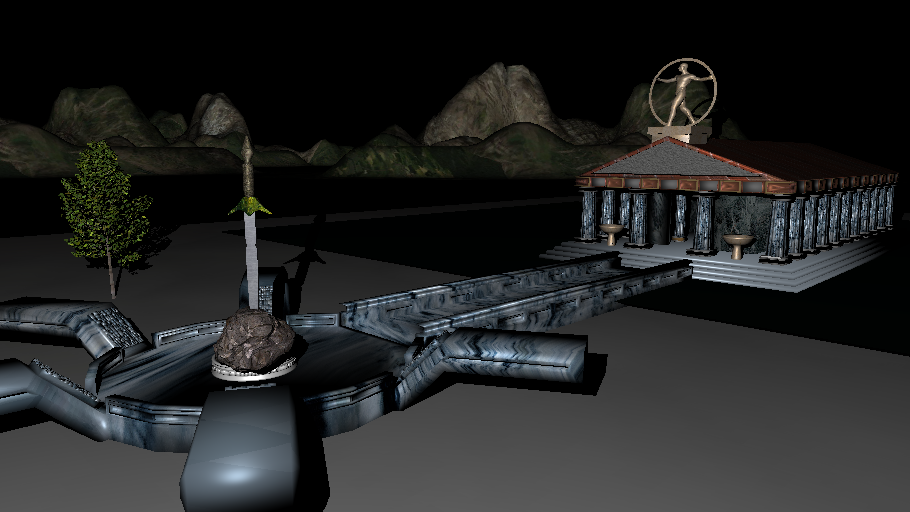
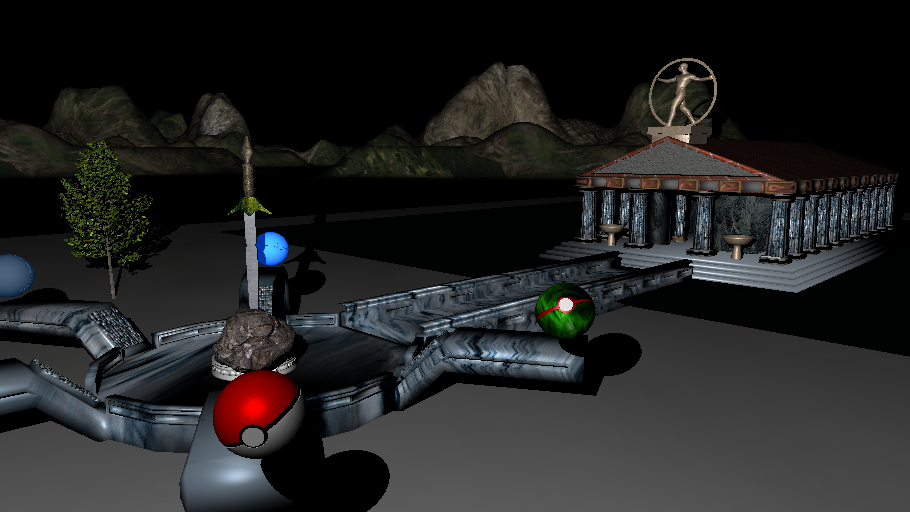
adding pokeballs and position them artfully

diff --git a/raytracer/Src/ExampleScene.cpp b/raytracer/Src/ExampleScene.cpp
@@ -609,9 +609,9 @@ void ExampleScene::initializeFinalScene()
     ////global settings
     rtCamera(/*eye*/STPoint3(10.f,7.f,25.f),/*up*/STVector3(0.f,1.f,0.f),/*lookat*/STPoint3(10.f,3.f,0.f),/*fov*/45.f,/*aspect*/1.7f);
     rtOutput(/*width*/910,/*height*/512,/*path*/"../Custom_Tests/AssignmentFinal.png");
-//    rtBounceDepth(100);
+    rtBounceDepth(100);
     rtShadowBias(1e-4f);
-//    rtSampleRate(2);
+    rtSampleRate(2);
     
     ////lighting
     rtAmbientLight(STColor3f(1.1f,1.1f,1.1f));
@@ -621,34 +621,47 @@ void ExampleScene::initializeFinalScene()
 //    rtPointLight(STPoint3(15.f,5.f,15.f),STColor3f(1.f,1.f,1.f));
 //    rtPointLight(STPoint3(2.5f,7.5f,20.f),STColor3f(.2f,.2f,.2f));
 
-//    //electric green pokeball
-//    rtPushMatrix();
-//    rtTranslate(2.7f,1.5f,13.f);
-//    rtRotate(15.f,15.f,0.f);
-//    rtScale(.5f,.5f,.5f);
-//    rtTriangleMeshWithMaterialAndTexture("../Custom_Tests/scene1/obj_files/indiv_obj/pokeball5.obj",true,false);
-//    rtPopMatrix();
-//    
-//    //shiny blue center pokeball
-//    Material mat_glass(/*ambient*/STColor3f(0.f,0.3f,0.6f),/*diffuse*/STColor3f(1.f,1.f,1.f),/*spec*/STColor3f(0.f,0.f,0.f),/*mirror*/STColor3f(1.f,1.f,1.f),/*shiness*/70.f);
-//    rtMaterial(mat_glass);
-//    int tex_id;rtLoadTexture("../Standard_Tests/blue.png",tex_id);
-//    rtBindTexture(tex_id);
-//
-//    rtPushMatrix();
-//    rtTranslate(3.7f,3.7f,11.8f);
-//    rtRotate(-90.f,5.f,0.f);
-//    rtScale(.2f,.2f,.2f);
-//    rtTriangleMesh("../Custom_Tests/scene1/obj_files/indiv_obj/pokeball.obj",true,false);
-//    rtPopMatrix();
-//
-//    //red pokeball
-//    rtPushMatrix();
-//    rtTranslate(6.f,2.5f,12.5f);
-//    rtRotate(50.f,35.f,0.f);
-//    rtScale(.5f,.5f,.5f);
-//    rtTriangleMeshWithMaterialAndTexture("../Custom_Tests/scene1/obj_files/indiv_obj/pokeball4.obj",true,false);
-//    rtPopMatrix();
+    //electric green pokeball
+    rtPushMatrix();
+    rtTranslate(12.9f,2.2f,9.2f);
+    rtRotate(15.f,15.f,0.f);
+    rtScale(.5f,.5f,.5f);
+    rtTriangleMeshWithMaterialAndTexture("../Custom_Tests/scene1/obj_files/indiv_obj/pokeball5.obj",true,false);
+    rtPopMatrix();
+    
+    //shiny purple center pokeball
+    Material mat_glass(/*ambient*/STColor3f(0.f,0.3f,0.6f),/*diffuse*/STColor3f(1.f,1.f,1.f),/*spec*/STColor3f(0.f,0.f,0.f),/*mirror*/STColor3f(1.f,1.f,1.f),/*shiness*/70.f);
+    rtMaterial(mat_glass);
+    int tex_id;rtLoadTexture("../Custom_Tests/scene2/images/white.png",tex_id);
+    rtBindTexture(tex_id);
+    
+    rtPushMatrix();
+    rtTranslate(-6.f,2.6f,2.3f);
+    rtRotate(10.f,5.f,0.f);
+    rtScale(.2f,.2f,.2f);
+    rtTriangleMesh("../Custom_Tests/scene1/obj_files/indiv_obj/pokeball.obj",true,false);
+    rtPopMatrix();
+
+    //shiny blue center pokeball
+    Material mat_glass2(/*ambient*/STColor3f(0.f,0.3f,0.6f),/*diffuse*/STColor3f(1.f,1.f,1.f),/*spec*/STColor3f(0.f,0.f,0.f),/*mirror*/STColor3f(1.f,1.f,1.f),/*shiness*/70.f);
+    rtMaterial(mat_glass2);
+    int tex_id2;rtLoadTexture("../Custom_Tests/scene2/images/blue.png",tex_id2);
+    rtBindTexture(tex_id2);
+
+    rtPushMatrix();
+    rtTranslate(3.2f,3.5f,1.5f);
+    rtRotate(-90.f,5.f,0.f);
+    rtScale(.16f,.16f,.16f);
+    rtTriangleMesh("../Custom_Tests/scene1/obj_files/indiv_obj/pokeball.obj",true,false);
+    rtPopMatrix();
+
+    //red pokeball
+    rtPushMatrix();
+    rtTranslate(7.3f,2.5f,15.5f);
+    rtRotate(50.f,35.f,0.f);
+    rtScale(.45f,.45f,.45f);
+    rtTriangleMeshWithMaterialAndTexture("../Custom_Tests/scene1/obj_files/indiv_obj/pokeball4.obj",true,false);
+    rtPopMatrix();
     
     // stone
     rtPushMatrix();
